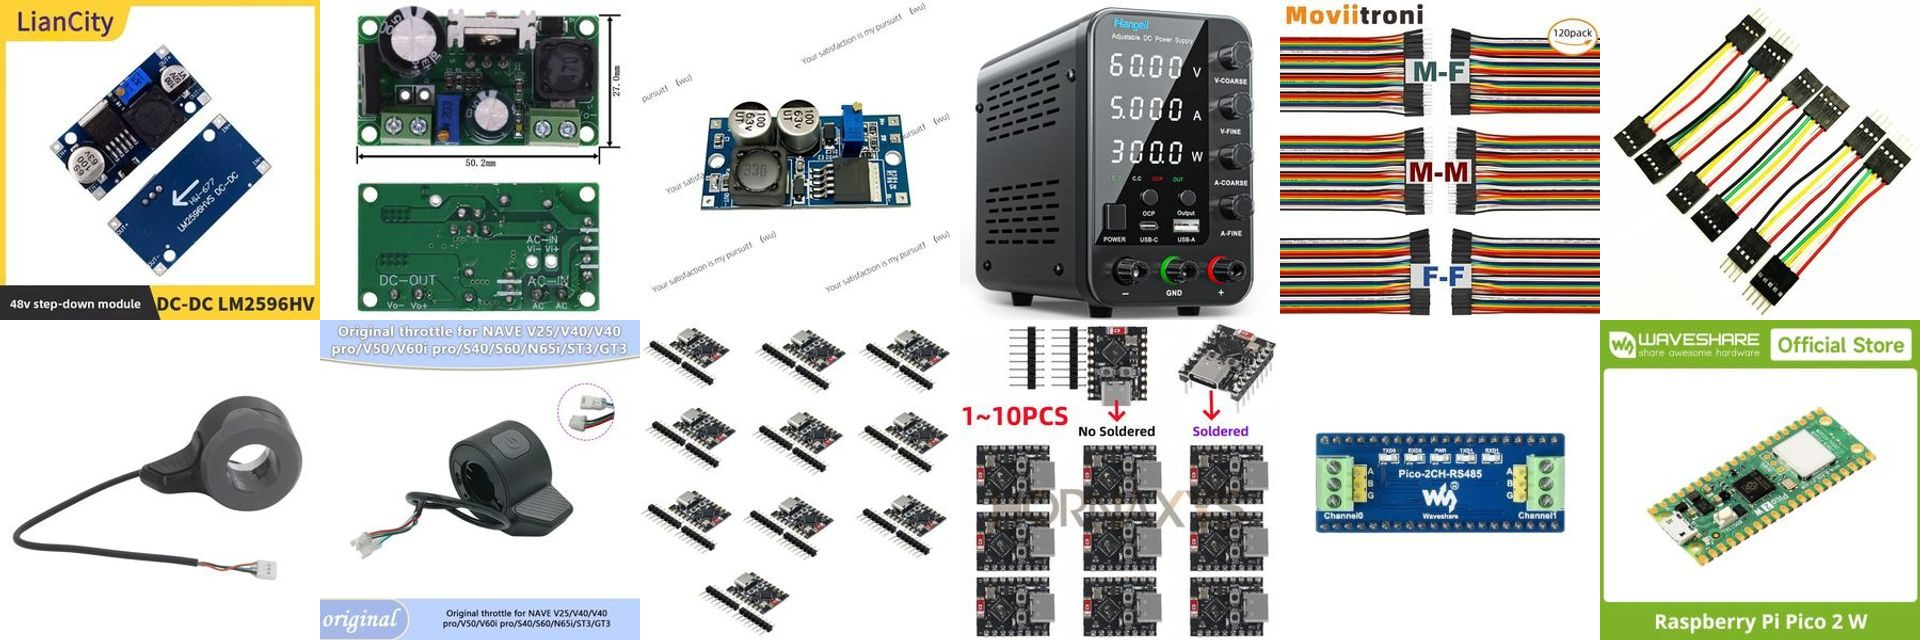
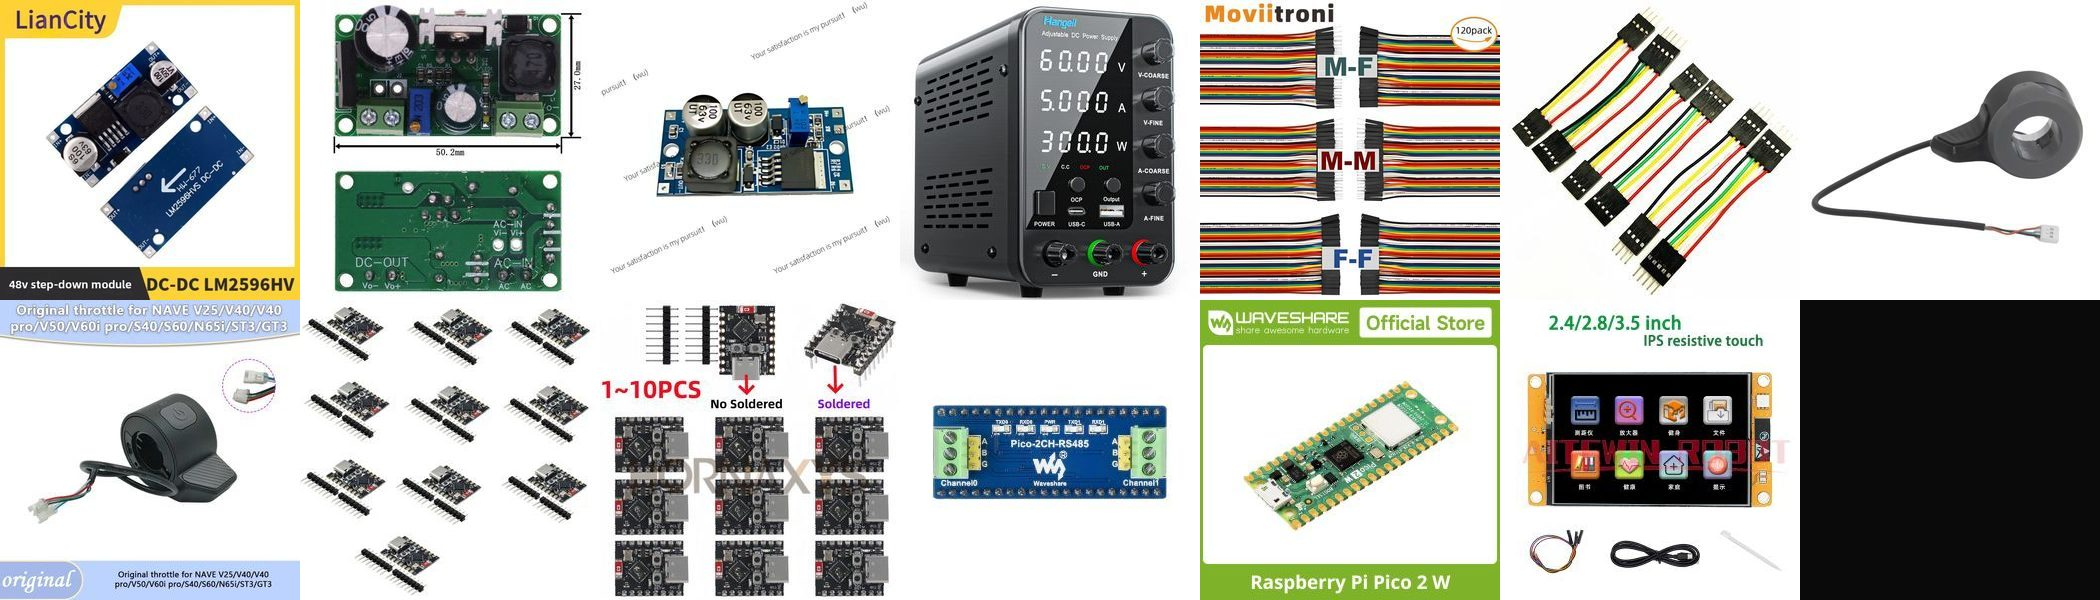
Add Cheap Yellow Display (CYD) to shopping list

diff --git a/src/content/blog/parts-im-ordering.md b/src/content/blog/parts-im-ordering.md
@@ -71,6 +71,15 @@ The firmware needs a throttle source to test drive and steer commands, and e-sco
 <p style="margin:0;line-height:1.7;"><strong><a href="https://s.click.aliexpress.com/e/_c4eoJpOl">ESP32-C3 SuperMini</a></strong> (~247 kr · $25 / €22 / £19, multi-pack). The same part that already rides on each board as the wireless SWD probe.</p>
 </div>
 
+## Display
+
+The **Cheap Yellow Display** (the ESP32-2432S028R, "CYD"): an ESP32-WROOM with a 2.8" 320×240 resistive touchscreen on a yellow PCB. A whole community has grown up around it (Brian Lough's [ESP32-Cheap-Yellow-Display](https://github.com/witnessmenow/ESP32-Cheap-Yellow-Display), LVGL examples everywhere), which makes it the easy path to a little touch UI, a config screen, or a bench status readout.
+
+<div style="display:flex;gap:1.25rem;align-items:center;margin:2rem 0;">
+<a href="https://s.click.aliexpress.com/e/_c3aAzeoN" style="flex:none;"><img src="/parts/cyd.jpg" alt="ESP32-2432S028R Cheap Yellow Display, 2.8 inch touchscreen" width="120" style="border-radius:6px;display:block;"></a>
+<p style="margin:0;line-height:1.7;"><strong><a href="https://s.click.aliexpress.com/e/_c3aAzeoN">Cheap Yellow Display (ESP32-2432S028R)</a></strong> (~150 kr · $15 / €13 / £12). 2.8" 320×240 ILI9341 resistive touch, microSD, ESP32-WROOM. Get the single-USB board; the dual-USB variant has driver quirks.</p>
+</div>
+
 ## RS485 sniffer
 
 I want a microcontroller with **two RS485 ports** to passively watch both directions of a 4-wire RS485 link on an RTK GPS. The obvious option, a Raspberry Pi RS485 CAN HAT, has two RS485 channels but drags a whole Pi along. A genuine two-port *microcontroller* board is rare (almost every "ESP32 RS485" board is one RS485 plus a CAN), but the Pico carrier below is a clean fit: two SP3485 transceivers on the Pico's two independent hardware UARTs (GP0/1 and GP4/5), exactly what a full-duplex tap needs. It is not isolated, which is fine for a low-voltage bench tap.